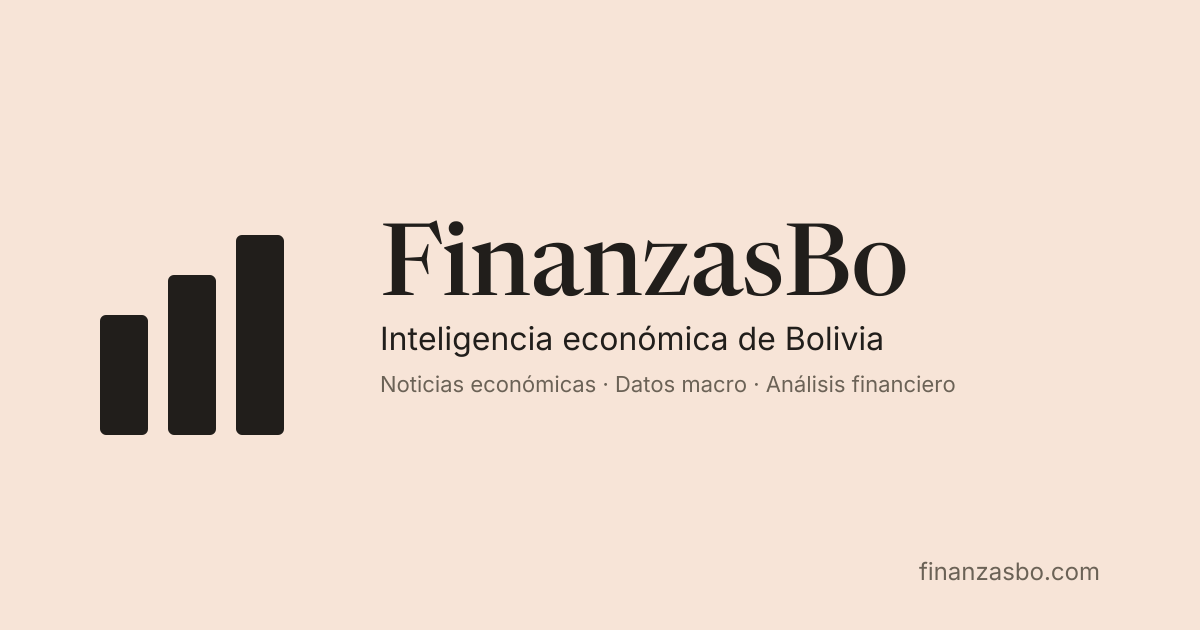
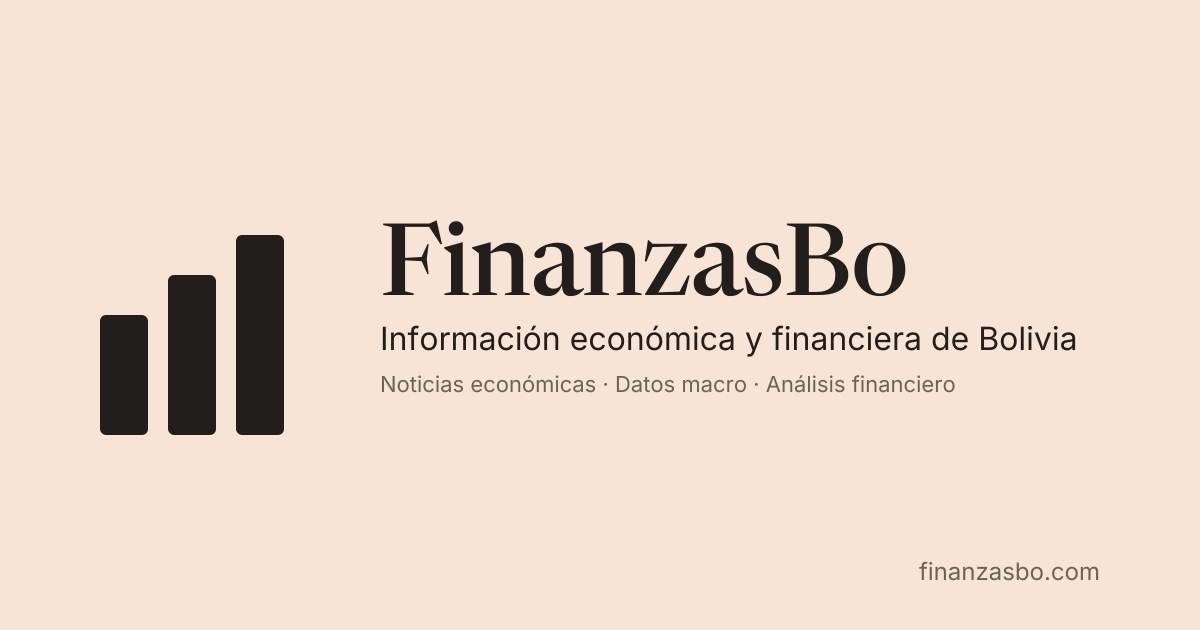
feat(copy): subtítulo → "Información económica y financiera de Bolivia"
Cambia el tagline de marca de "Inteligencia económica de Bolivia" a
"Información económica y financiera de Bolivia" en todas las superficies
user-facing:
  - i18n/es.json: nav.tagline (masthead), meta.title/og_title/twitter_title
    (título del tab + preview al pegar el link) y noticias.foot_copy (pie).
  - i18n/en.json: mismos slots, traducción paralela
    ("Economic and financial information on Bolivia").
  - static/og.png + og.svg: imagen de preview del link (texto horneado);
    regenerada vía scripts/build_og_svg.py (texto outlineado) + cairosvg.

meta.description/og_description/twitter_description NO se tocan (son otra
copy: "Noticias económicas, datos macro…"). Fuera de scope: snapshots de
design-system/ (internos, se regeneran con su propio tooling) y prosa de docs.

Changed region(s): [[0.3392, 0.5127, 0.8942, 0.573]]

diff --git a/scripts/build_og_svg.py b/scripts/build_og_svg.py
@@ -81,7 +81,7 @@ W, H = 1200, 630
 # la composición previa (bg durazno + 3 barras negras + wordmark + 3 líneas).
 els = [
     ("#211E1B", text_to_paths(NEWS, "FinanzasBo", 100, 380, 295, letter_spacing=-1.0)),
-    ("#211E1B", text_to_paths(INTER, "Inteligencia económica de Bolivia", 32, 380, 350)),
+    ("#211E1B", text_to_paths(INTER, "Información económica y financiera de Bolivia", 32, 380, 350)),
     ("#6B6256", text_to_paths(INTER, "Noticias económicas · Datos macro · Análisis financiero", 22, 380, 392)),
     ("#6B6256", text_to_paths(INTER, "finanzasbo.com", 24, 1100, 580, anchor="end")),
 ]